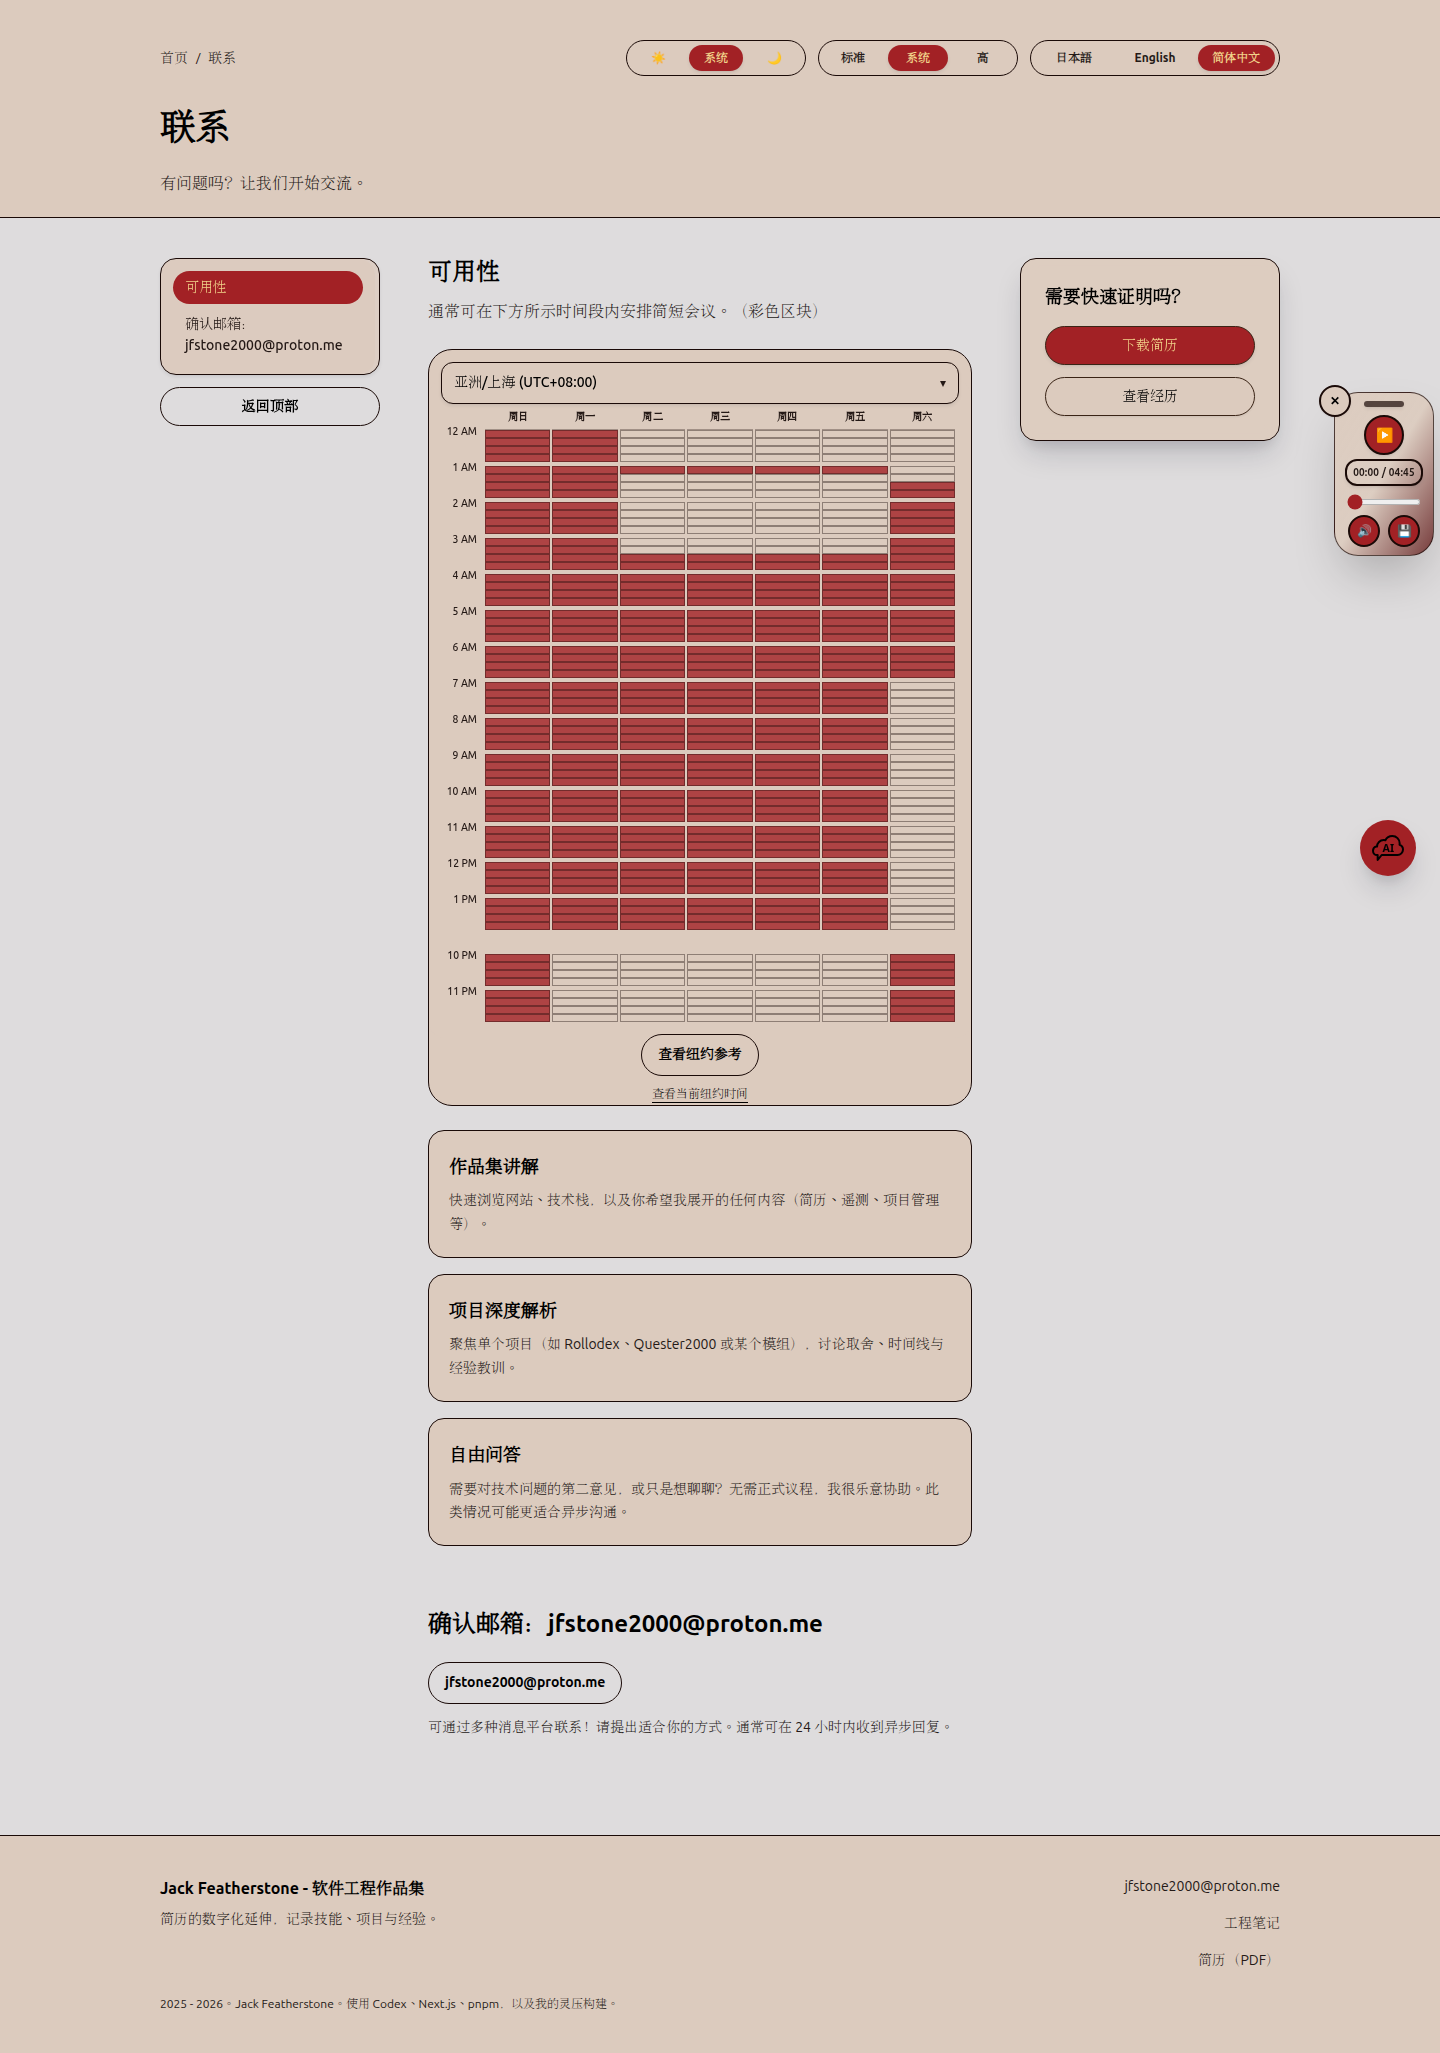
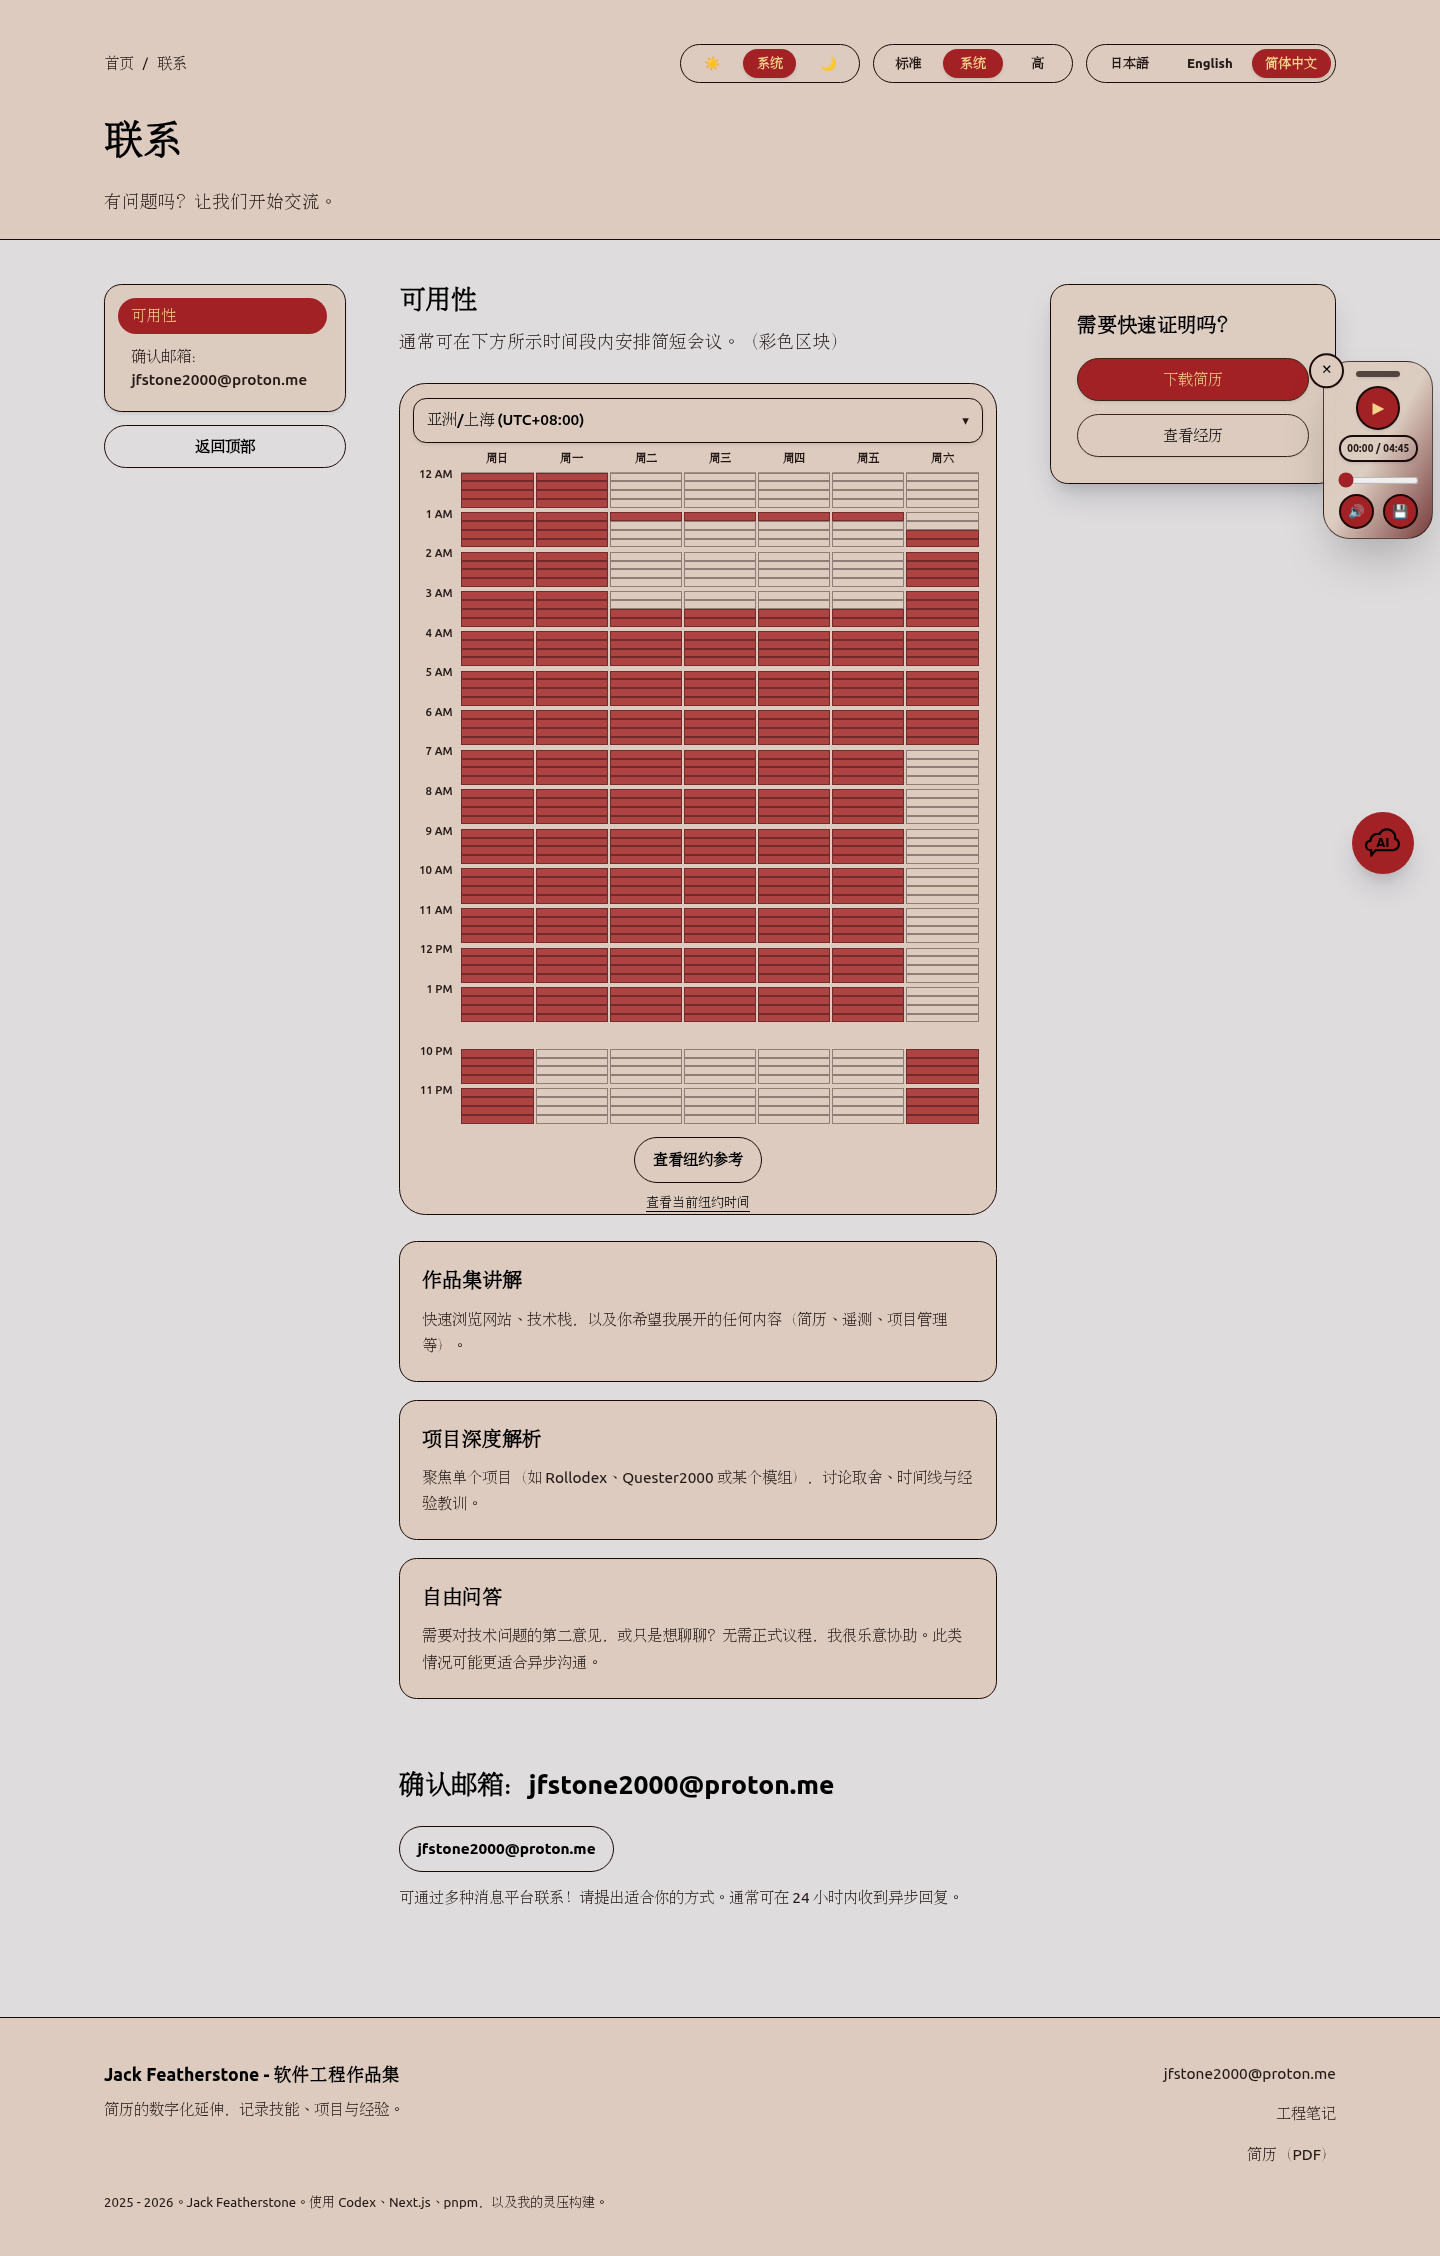
Release 1.0.1: a11y fixes for HUD

diff --git a/apps/site/playwright-report-a11y/index.html b/apps/site/playwright-report-a11y/index.html
@@ -82,4 +82,4 @@ Error generating stack: `+n.message+`
     <div id='root'></div>
   </body>
 </html>
[2 lines of base64/hex data omitted]

diff --git a/apps/site/src/components/Shell/MobileShellLayout.tsx b/apps/site/src/components/Shell/MobileShellLayout.tsx
@@ -14,7 +14,7 @@ import { ThemeToggle } from "../ThemeToggle";
 import { ContrastToggle } from "../ContrastToggle";
 import { LanguageSwitcher } from "../LanguageSwitcher";
 import { SkimToggleButton } from "../SkimToggleButton";
-import { HudPortal } from "./ViewportHUDLayer";
+import { HudPortal, ViewportHUDLayer } from "./ViewportHUDLayer";
 import type {
   ImageDescriptor,
   ResponsiveImagePreset
@@ -129,18 +129,21 @@ export function MobileShellLayout({
     <>
       <header className="border-b border-border bg-surface pb-2 pt-3 dark:border-dark-border dark:bg-dark-surface">
         <div className="mx-auto w-full max-w-6xl pb-1 px-4">
-          <div className="space-y-3 pb-0">
+          <div className="pb-0">
             <div className="flex items-start justify-end gap-3">
               <div className="mt-1 h-8.5 min-w-[180px]">
                 <LanguageSwitcher className="h-8.5 min-w-[180px]" />
               </div>
             </div>
+            <ViewportHUDLayer />
             {breadcrumbs.length ? (
-              <Breadcrumbs
-                items={breadcrumbs}
-                ariaLabel={shellCopy.breadcrumbsLabel}
-                className="skim-hide"
-              />
+              <div className="mt-3">
+                <Breadcrumbs
+                  items={breadcrumbs}
+                  ariaLabel={shellCopy.breadcrumbsLabel}
+                  className="skim-hide"
+                />
+              </div>
             ) : null}
           </div>
 
@@ -386,7 +389,7 @@ export function MobileShellLayout({
       )}
     >
       {menuOpen && menuEnabled ? (
-        <HudPortal>
+        <HudPortal slot="menu">
           <div
             data-menu-layer="true"
             className="absolute inset-0 z-50 flex overscroll-contain"
@@ -503,7 +506,7 @@ export function MobileShellLayout({
         className="pointer-events-none fixed left-0 top-0 z-40"
       >
         {!menuOpen && menuEnabled ? (
-          <HudPortal>
+        <HudPortal slot="menu">
             <button
               type="button"
               aria-label={shellCopy.menuOpenLabel}
@@ -517,7 +520,7 @@ export function MobileShellLayout({
             </button>
           </HudPortal>
         ) : null}
-        {floatingWidget ? <HudPortal>{floatingWidget}</HudPortal> : null}
+        {floatingWidget ? <HudPortal slot="widgets">{floatingWidget}</HudPortal> : null}
         <div id="chatbot-slot" data-chatbot-slot="true" />
       </div>
       {mobileScrollContainer ? (

diff --git a/apps/site/src/components/Shell/ViewportHUDLayer.tsx b/apps/site/src/components/Shell/ViewportHUDLayer.tsx
@@ -5,6 +5,13 @@ import { useEffect, useRef, useState, useSyncExternalStore } from "react";
 import { createPortal } from "react-dom";
 
 export const HUD_LAYER_ID = "hud-layer";
+export const HUD_SLOT_IDS = {
+  menu: "hud-slot-menu",
+  widgets: "hud-slot-widgets",
+  chat: "hud-slot-chat"
+} as const;
+
+export type HudSlot = keyof typeof HUD_SLOT_IDS;
 
 type HUDViewport = {
   width: number;
@@ -166,14 +173,21 @@ export function ViewportHUDLayer() {
     };
   }, []);
 
-  return <div id={HUD_LAYER_ID} data-hud-layer="true" aria-hidden="true" className="hud-layer" />;
+  return (
+    <div id={HUD_LAYER_ID} data-hud-layer="true" className="hud-layer">
+      <div id={HUD_SLOT_IDS.menu} data-hud-slot="menu" />
+      <div id={HUD_SLOT_IDS.widgets} data-hud-slot="widgets" />
+      <div id={HUD_SLOT_IDS.chat} data-hud-slot="chat" />
+    </div>
+  );
 }
 
 type HudPortalProps = {
   children: ReactNode;
+  slot?: HudSlot;
 };
 
-export function HudPortal({ children }: HudPortalProps) {
+export function HudPortal({ children, slot = "widgets" }: HudPortalProps) {
   const [target, setTarget] = useState<HTMLElement | null>(null);
 
   useEffect(() => {
@@ -181,7 +195,8 @@ export function HudPortal({ children }: HudPortalProps) {
       return;
     }
     const updateTarget = () => {
-      const nextTarget = document.getElementById(HUD_LAYER_ID);
+      const nextTarget =
+        document.getElementById(HUD_SLOT_IDS[slot]) ?? document.getElementById(HUD_LAYER_ID);
       setTarget((current) => (current === nextTarget ? current : nextTarget));
     };
 
@@ -191,7 +206,7 @@ export function HudPortal({ children }: HudPortalProps) {
     observer.observe(document.body, { childList: true, subtree: true });
 
     return () => observer.disconnect();
-  }, []);
+  }, [slot]);
 
   if (!target) {
     return null;

diff --git a/apps/site/src/components/Shell/Layout.tsx b/apps/site/src/components/Shell/Layout.tsx
@@ -11,7 +11,7 @@ import { LanguageSwitcher } from "../LanguageSwitcher";
 import { ContrastToggle } from "../ContrastToggle";
 import { ThemeToggle } from "../ThemeToggle";
 import { SkimToggleButton } from "../SkimToggleButton";
-import { HudPortal } from "./ViewportHUDLayer";
+import { HudPortal, ViewportHUDLayer } from "./ViewportHUDLayer";
 import { ResponsiveImage } from "../ResponsiveImage";
 import type {
   ImageDescriptor,
@@ -172,6 +172,7 @@ export function ShellLayout({
               <LanguageSwitcher className="min-w-[250px] flex-1 md:flex-none" />
             </div>
           </div>
+          <ViewportHUDLayer />
           <div className={clsx("shell-hero-grid", heroGridClassName)}>
             <div className={clsx("shell-title-stack", titleStackClassName)}>
               {title ? (
@@ -229,7 +230,7 @@ export function ShellLayout({
       <div className={contentGridClassName}>
         <div className={ctaContainerClassName}>
           {cta}
-          {floatingWidget ? <HudPortal>{floatingWidget}</HudPortal> : null}
+          {floatingWidget ? <HudPortal slot="widgets">{floatingWidget}</HudPortal> : null}
         </div>
 
         {navItems.length ? (

diff --git a/apps/site/src/components/chat/ChatbotPortalMount.tsx b/apps/site/src/components/chat/ChatbotPortalMount.tsx
@@ -6,7 +6,7 @@ import dynamic from "next/dynamic";
 
 import type { ChatbotCopy, ChatbotProviderProps } from "./ChatbotProvider";
 import type { Locale } from "../../utils/i18n";
-import { HUD_LAYER_ID } from "../Shell/ViewportHUDLayer";
+import { HUD_LAYER_ID, HUD_SLOT_IDS } from "../Shell/ViewportHUDLayer";
 
 const ChatbotProvider = dynamic<ChatbotProviderProps>(
   () => import("./ChatbotProvider").then((mod) => mod.ChatbotProvider),
@@ -31,6 +31,7 @@ export function ChatbotPortalMount({ enabled, copy, locale }: ChatbotPortalMount
 
     const updateTarget = () => {
       const nextTarget =
+        document.getElementById(HUD_SLOT_IDS.chat) ??
         document.getElementById(HUD_LAYER_ID) ??
         document.getElementById(CHATBOT_SLOT_ID) ??
         document.body;

diff --git a/apps/site/app/layout.tsx b/apps/site/app/layout.tsx
@@ -11,7 +11,6 @@ import { PORTFOLIO_BASE_URL } from "../src/lib/seo/jsonld";
 import { contrastCookieName } from "../src/utils/contrast";
 import { themeCookieName, themeLocaleCookieName } from "../src/utils/theme";
 import { CriticalCss } from "./CriticalCss";
-import { ViewportHUDLayer } from "../src/components/Shell/ViewportHUDLayer";
 const OtelBootstrap = dynamic(
   () =>
     import("../src/components/telemetry/OtelBootstrap").then(
@@ -89,7 +88,6 @@ export default function RootLayout({ children }: { children: ReactNode }) {
           dangerouslySetInnerHTML={{ __html: themeInitScript }}
         />
         {browserOtelEnabled ? <OtelBootstrap /> : null}
-        <ViewportHUDLayer />
         {children}
       </body>
     </html>
